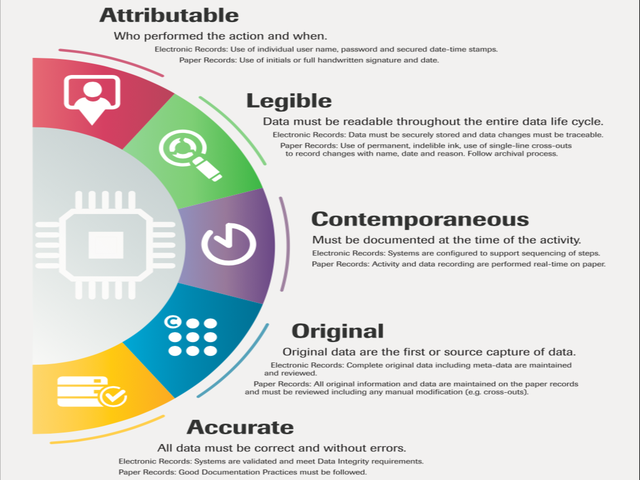
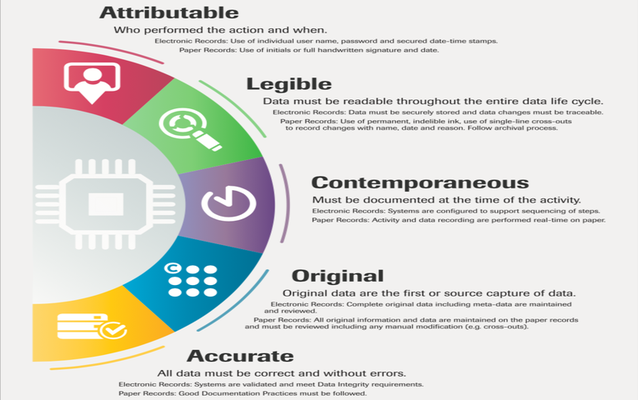
Add scroll and indicators; general cleanup; resize images

diff --git a/assets/css/stylesheet.css b/assets/css/stylesheet.css
@@ -448,8 +448,8 @@ a:hover {
 }
 
 header {
-  padding-top: 40px;
-  padding-bottom: 40px;
+  padding-top: 20px;
+  padding-bottom: 0px;
   font-family: 'Architects Daughter', 'Helvetica Neue', Helvetica, Arial, serif;
   background: #2e7bcf url(../images/header-bg.jpg) 0 0 repeat-x;
   border-bottom: solid 1px #275da1;
@@ -770,8 +770,8 @@ dl dd {
 .main-section {
   float: left;
   width: 100%;
-  max-width: 795px;
-  padding: 30px 30px 0px 30px;
+  max-width: 820px;
+  padding: 20px 30px 0px 30px;
   background: #fff;
   border: 1px solid #ddd;
 }
@@ -779,7 +779,8 @@ dl dd {
 .work {
   position: relative;
   float: left;
-  width: 725px;
+  width: 750px;
+  height: 500px;
   margin: 0px 30px 35px 5px;
   overflow: auto;
 }
@@ -788,6 +789,7 @@ dl dd {
   margin-right: 0px;
 } */
 
+/* for images: width 640px, height 400px */
 .work img {
   width: 100%;
   border: 0 none;
@@ -821,6 +823,26 @@ dl dd {
 
 .work:hover div {
   opacity: 1;
+}
+
+.scroll-header {
+  /* position: fixed; */
+  top: 100px;
+  z-index: 1;
+  width: 820px;
+  background-color: #f1f1f1;
+}
+
+.progress-container {
+  width: 100%;
+  height: 8px;
+  background: #ccc;
+}
+
+.progress-bar {
+  height: 8px;
+  background: #4caf50;
+  width: 0%;
 }
 
 .auth-image {

diff --git a/technology.html b/technology.html
@@ -4,18 +4,26 @@ title: KawShon Portfolio
 heading: Tech Roadmap Portfolio
 ---
 
-<section class="main-section mb-4">
-    {% for item in site.data.portfolio-tech.projects %}
-      <div class="work mb-4">
+<div class="scroll-header">
+  <div class="progress-container">
+    <div class="progress-bar" id="indicatorBar" style="width: 1%"></div>
+  </div>  
+</div>  
+
+<section onscroll="scrollIndicator()" class="main-section mb-4" style="display: inline-block;overflow: auto;height: 540px">
+  {% for item in site.data.portfolio-tech.projects %}
+    <div class="work mb-4">
+      <a href="{{ item.url }}">
         <u><em>{{ item.title }}</em></u>
-        <img src="{{ item.img }}" alt="{{ item.title }}">
-        <div>
-          -{{ item.description }}
-          <br>
-          -{{ item.role }}
-          <br>
-          -{{ item.result }}
-        </div>
+      </a>
+      <img src="{{ item.img }}" alt="{{ item.title }}">
+      <div>
+        -{{ item.description }}
+        <br>
+        -{{ item.role }}
+        <br>
+        -{{ item.result }}
       </div>
-    {% endfor %}
-  </section>
+    </div>
+  {% endfor %}
+</section>

diff --git a/software.html b/software.html
@@ -4,7 +4,13 @@ title: KawShon Portfolio
 heading: Software Apps Portfolio
 ---
 
-<section class="main-section mb-4">
+<div class="scroll-header">
+  <div class="progress-container">
+    <div class="progress-bar" id="indicatorBar" style="width: 1%"></div>
+  </div>  
+</div>
+
+<section onscroll="scrollIndicator()" class="main-section mb-4" style="display: inline-block;overflow: auto;height: 540px">
   {% for item in site.data.portfolio-software.projects %}
     <div class="work mb-4">
       <a href="{{ item.urldeployed }}">

diff --git a/blog.html b/blog.html
@@ -3,9 +3,10 @@ layout: page
 title: KawShon Blog
 heading: Blog Posts
 ---
-
-<ul class="posts">
-  {% for post in site.posts %}
-    <li><span>{{ post.date | date_to_string }}</span> &raquo; <a href="{{ site.baseurl }}{{ post.url }}">{{ post.title }}</a></li>
-  {% endfor %}
-</ul>
+<section class="main-section">
+  <ul class="posts">
+    {% for post in site.posts %}
+      <li><span>{{ post.date | date_to_string }}</span> &raquo; <a href="{{ post.url }}">{{ post.title }}</a></li>
+    {% endfor %}
+  </ul>
+</section>

diff --git a/assets/js/scroll-indicator.js b/assets/js/scroll-indicator.js
@@ -1,0 +1,8 @@
+// When the user scrolls the page, execute myFunction 
+function scrollIndicator() {
+  var mainSection = document.getElementsByClassName("main-section")[0];
+  var secScroll = mainSection.scrollTop;
+  var height = mainSection.scrollHeight - mainSection.clientHeight;
+  var scrolled = 1 + (secScroll / height) * 99;
+  document.getElementById("indicatorBar").style.width = scrolled + "%";
+}

diff --git a/_layouts/post.html b/_layouts/post.html
@@ -1,7 +1,11 @@
 ---
 layout: default
 ---
-<h2>{{ page.title }}</h2>
-<p class="meta">{{ page.date | date_to_string }}</p>
 
-{{ content }}
+<h2>{{ page.title }}</h2>
+
+<section class="main-section">
+  <p class="meta">{{ page.date | date_to_string }}</p>
+  
+  {{ content }}    
+</section>

diff --git a/_includes/navigation.html b/_includes/navigation.html
@@ -2,7 +2,7 @@
   <ul class="list-unstyled">
     {% for item in site.data.navigation.pages %}
       <li>
-        <a href="{{ item.url }}">{{ item.title }}</a>
+        <a href="/{{ item.url }}">{{ item.title }}</a>
       </li>
     {% endfor %}
   </ul>

diff --git a/_layouts/page.html b/_layouts/page.html
@@ -2,6 +2,6 @@
 layout: default
 ---
 <div id="home">
-  <h1>{{ page.heading }}</h1>
+  <h2>{{ page.heading }}</h2>
     {{ content }}
 </div>

diff --git a/_layouts/default.html b/_layouts/default.html
@@ -43,5 +43,7 @@
         </div>
       </div>
     </div>
+
+    <script src="/assets/js/scroll-indicator.js"></script>
   </body>
 </html>
